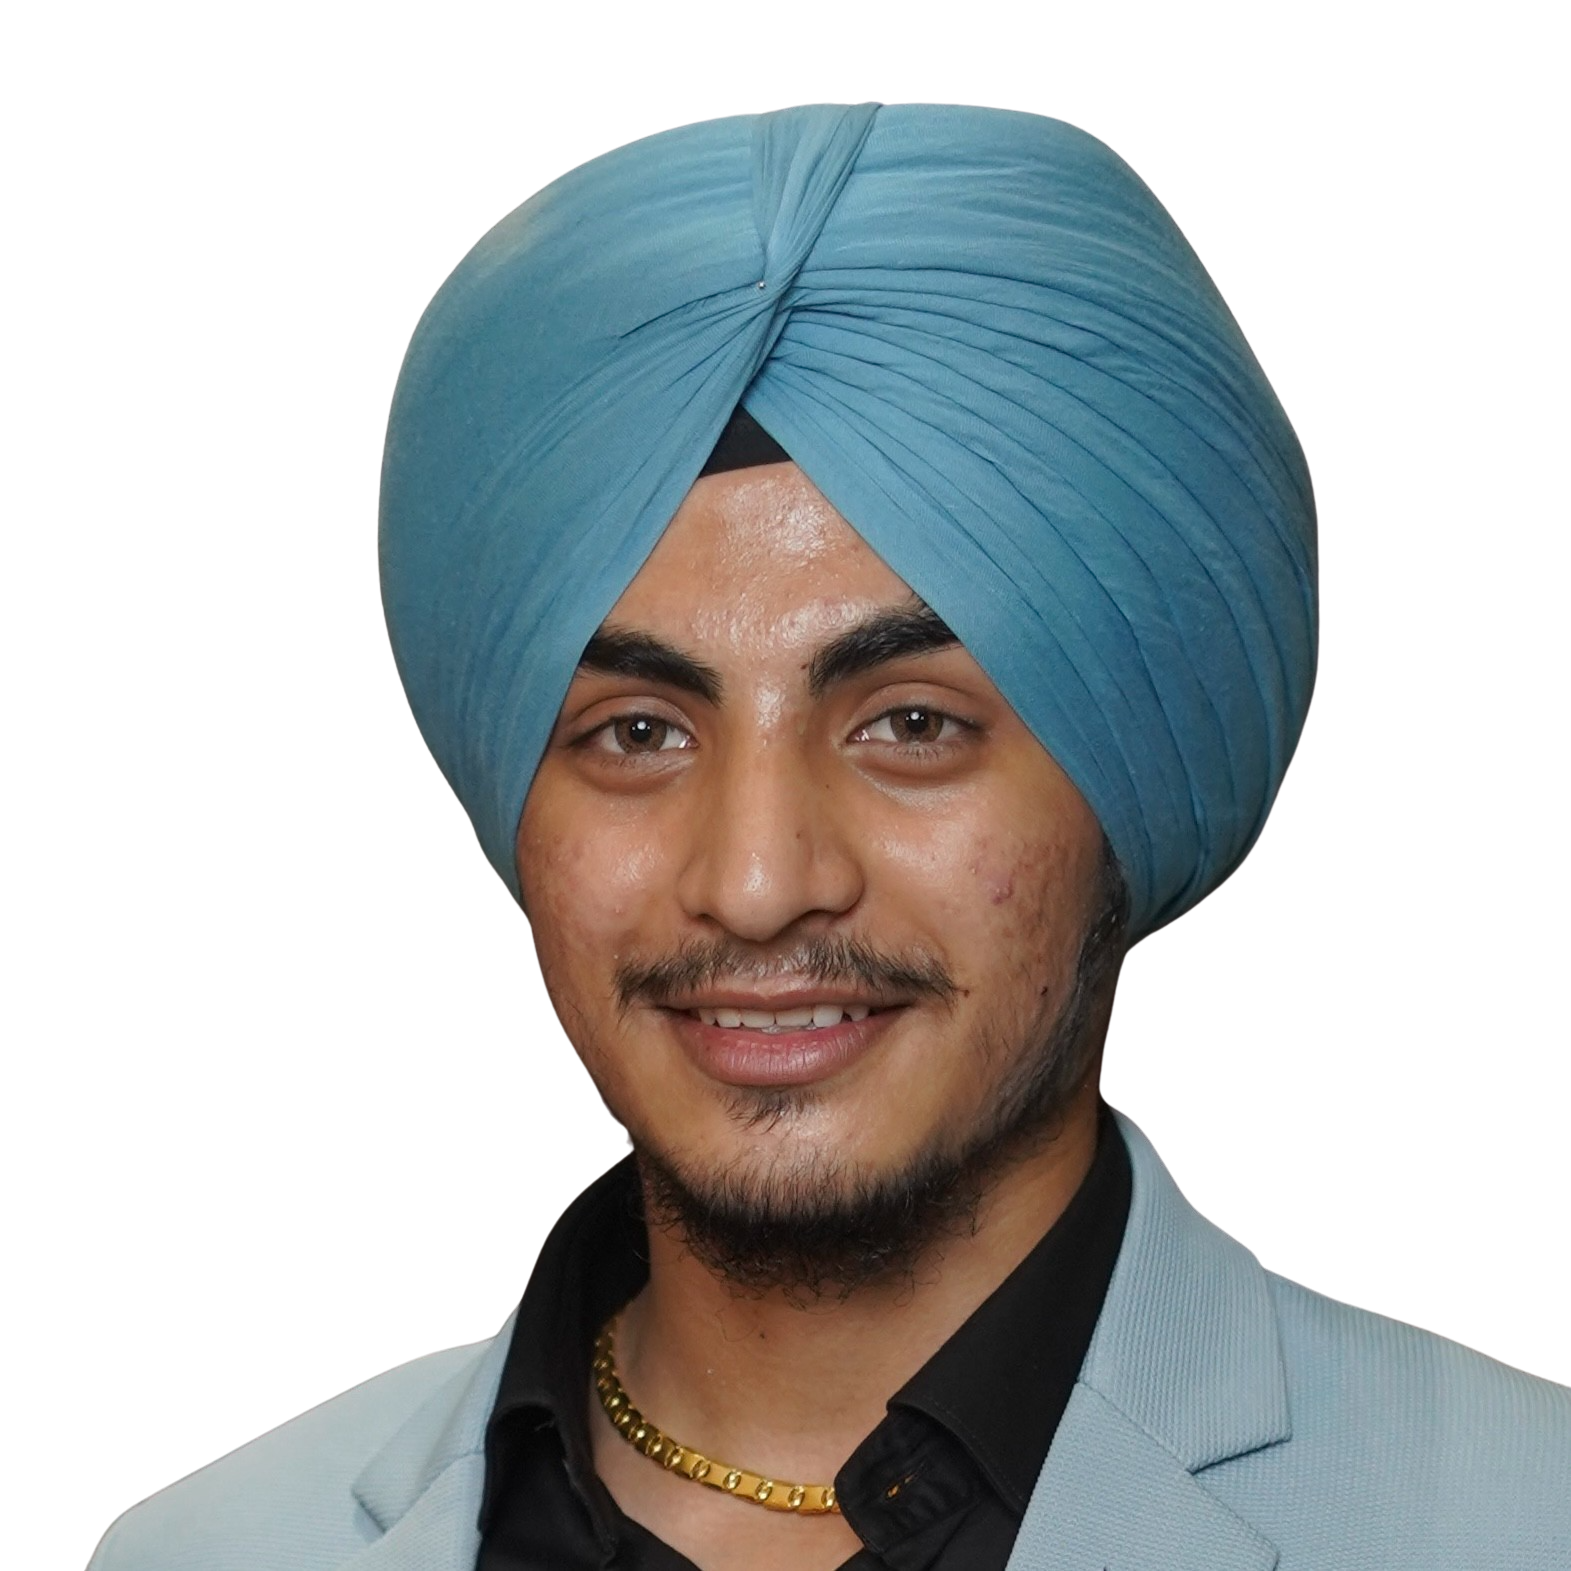
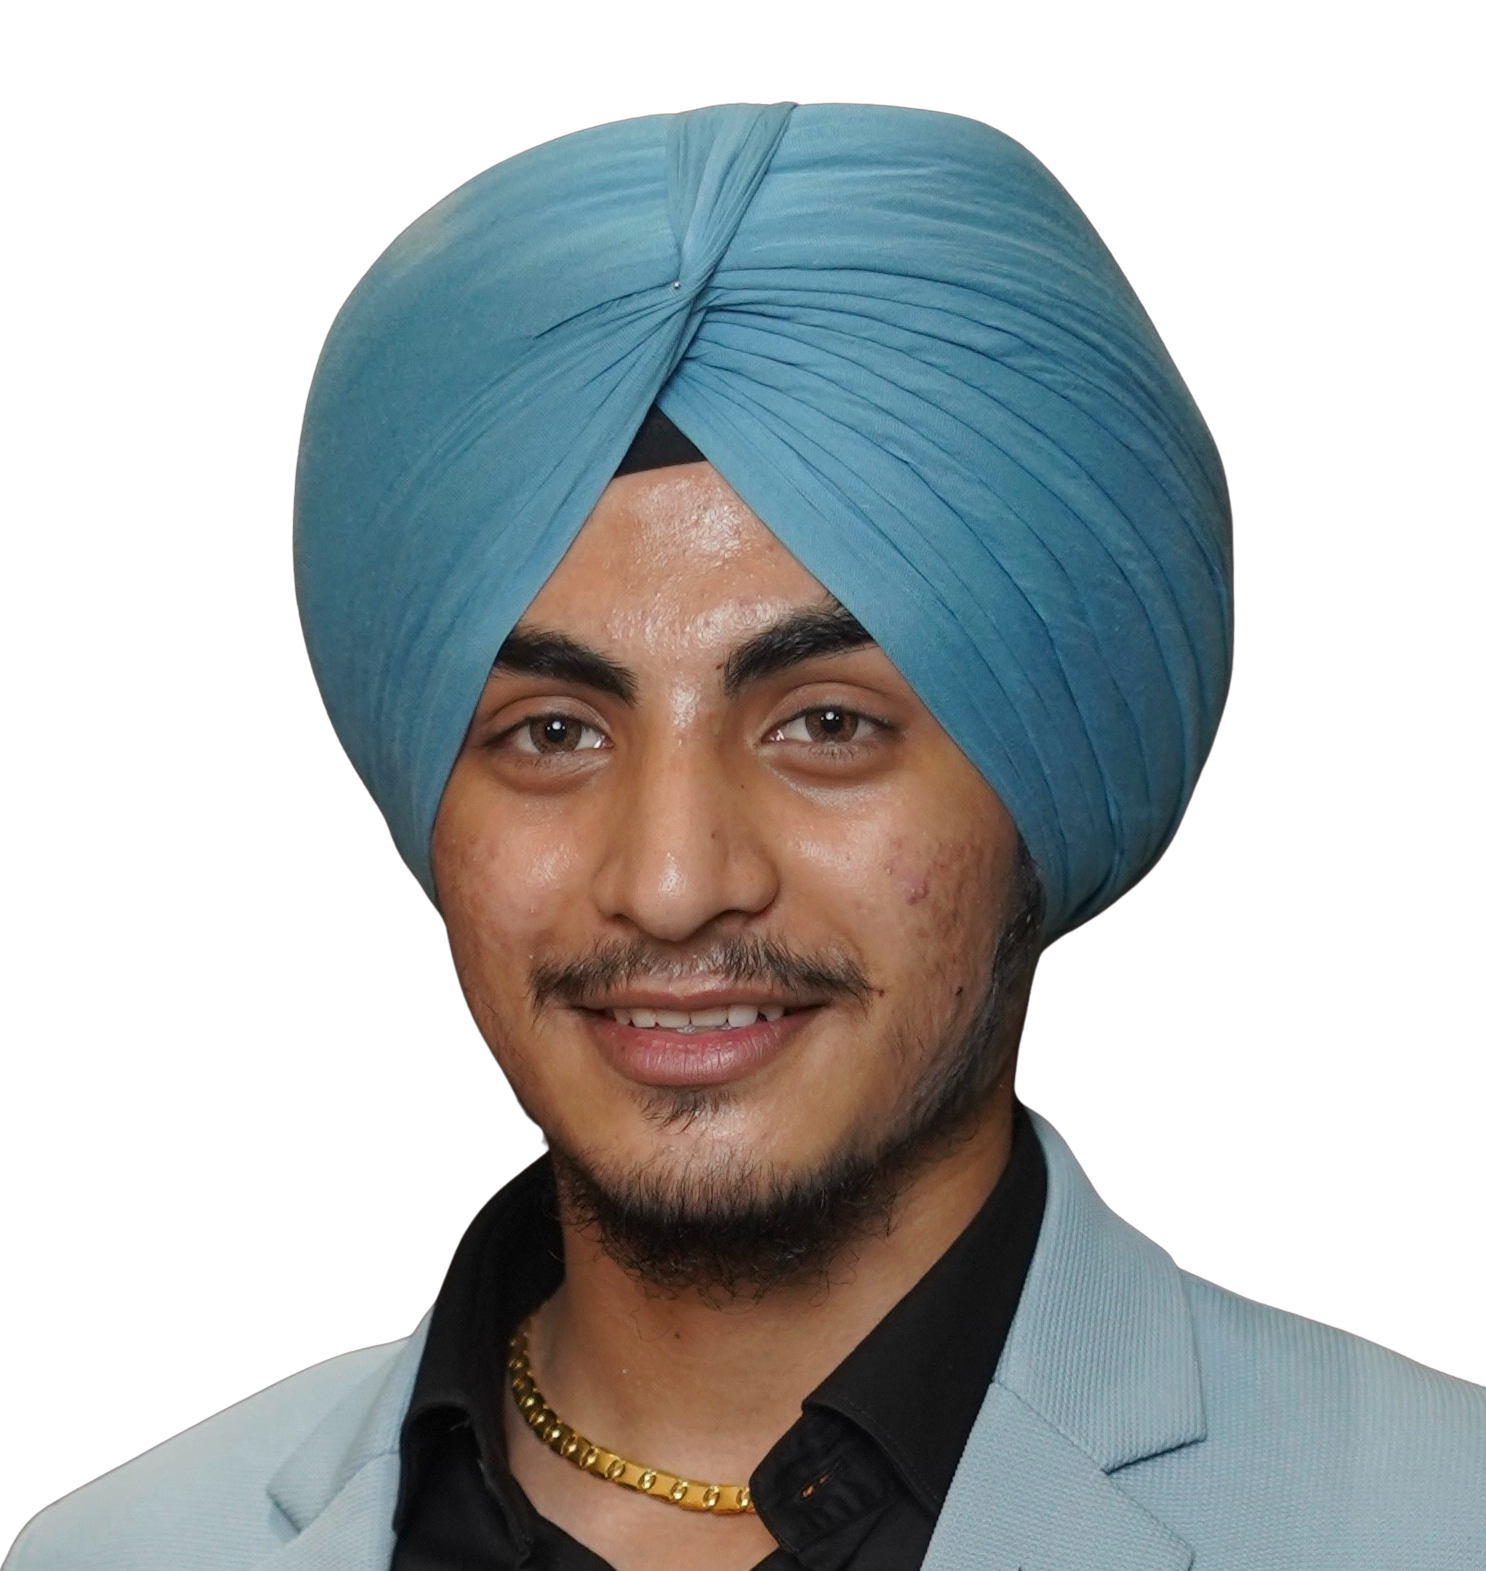
v0.3

diff --git a/index.html b/index.html
@@ -56,7 +56,7 @@
 
     <div class="about-container">
         <div class="about-img">
-            <img src="main.png" alt="">
+            <img src="main2.png" alt="">
         </div>
         <div class="about-text">
             <p>As a Software Developer, I build the digital world's foundation with expertise in HTML, CSS, Python, MySQL, C++, and JavaScript. My journey also involves exploring Figma, Graphic Design, and Website Building, enhancing my creative and technical skills to craft innovative solutions.</p>
@@ -122,7 +122,7 @@
             </div>
         </div>
         <div class="skills-img">
-            <img src="main.png" alt="Skill">
+            <img src="main3.png" alt="Skill">
         </div>
     </div>
 </section>
@@ -206,3 +206,122 @@
 </body>
 
 </html>
+
+
+
+<!-- 
+<button class="btn btn--stripe">Button</button>
+<a href="#" class="btn btn--stripe">Link</a>
+<button class="btn btn--stripe btn--radius">Aggressive Radius</button>
+<button class="btn btn--stripe btn--large">Large Button</button>''
+
+
+
+
+$color-gray: #666;
+$color-black: #000;
+$stripe-height: 7px;
+$btn-color: $color-gray;
+$btn-background: #fff;
+$btn-color-hover: #fff;
+$btn-background-hover: $color-gray;
+$border-color: $color-gray;
+$border-color-hover: $color-black;
+
+@mixin reset-button {
+    overflow : visible;
+    margin : 0;
+    padding : 0;
+    border : 0;
+    background : transparent;
+    font : inherit;
+    line-height : normal;
+    cursor : pointer;
+    -moz-user-select : text;
+    
+    &:-moz-focus-inner {
+        padding : 0;
+        border : 0;
+    }
+}
+
+@keyframes stripe-slide {
+    0% { background-position: 0% 0; }
+    100% { background-position: 100% 0; }
+}
+
+body {
+    width: 100%;
+    height: 100vh;
+    display: flex;
+    justify-content: center;
+    align-items: center;
+    flex-direction: column;
+    font-family: sans-serif;
+}
+
+.btn {
+    @include reset-button;
+    display: block;
+    text-decoration: none;
+    text-transform: uppercase;
+    padding: 16px 36px 22px;
+    background-color: $btn-background;
+    color: $btn-color;
+    border: 2px solid $border-color;
+    border-radius: 6px;
+    margin-bottom: 16px;
+    transition: all .5s ease;
+    
+    &--stripe {
+        overflow: hidden;
+        position: relative;
+        
+        &:after {
+            content: '';
+            display: block;
+            height: $stripe-height;
+            width: 100%;
+            background-image: repeating-linear-gradient(
+                45deg,
+                $border-color,
+                $border-color 1px,
+                transparent 2px,
+                transparent 5px
+            );
+            -webkit-backface-visibility: hidden;
+            backface-visibility: hidden;
+            border-top: 1px solid $border-color;
+            position: absolute;
+            left: 0;
+            bottom: 0;
+            background-size: $stripe-height $stripe-height;
+        }
+
+        &:hover {
+            background-color: $btn-background-hover;
+            color: $btn-color-hover;
+            border-color: $border-color-hover;
+
+            &:after {
+                background-image: repeating-linear-gradient(
+                    45deg,
+                    $btn-color-hover,
+                    $btn-color-hover 1px,
+                    transparent 2px,
+                    transparent 5px
+                );
+                border-top: 1px solid $border-color-hover;
+                animation: stripe-slide 12s infinite linear forwards;
+            }
+        }
+    }
+    
+    &--large {
+        width: 50%;
+    }
+    
+    &--radius {
+        border-radius: 36px;
+    }
+} -->

diff --git a/style.css b/style.css
@@ -12,10 +12,10 @@
 }
 
 :root {
-  --main-color: #033a80;
+  --main-color: #40916C;
   --bg-color: #fff;
   --text-color: #0f0c27;
-  --hover: hsl(260, 100%, 51%);
+  --hover: hsl(155, 43%, 18%);
   --big-font: 3.2rem;
   --medium-font: 1.8rem;
   --p-font: 0.941rem;
@@ -50,7 +50,7 @@ body {
 
 .heading span {
   font-size: var(--p-font);
-  color: rgb(2, 166, 70);
+  color: rgb(53, 143, 128);
 }
 
 header {
@@ -82,7 +82,7 @@ header.shadow {
 .logo span {
   font-size: 1.61rem;
   font-weight: 600;
-  color: crimson;
+  color: hsl(0, 69%, 50%);
 }
 
 .navbar {
@@ -128,6 +128,7 @@ header.shadow {
 
 .home-img img {
   width: 100%;
+  border-radius: 0.5rem;
 }
 
 .home-text span {
@@ -163,6 +164,7 @@ header.shadow {
 
 .social a:hover {
   color: var(--hover);
+  --hover: hsl(0, 69%, 50%);
 }
 
 .btn {
@@ -176,6 +178,9 @@ header.shadow {
 .btn:hover {
   background: var(--hover);
 }
+
+
+
 
 
 .about-container {
@@ -227,6 +232,7 @@ header.shadow {
   width: 80%;
   padding-left: 4rem;
   object-position: center;
+  border-radius: 0.5rem;
 }
 
 .bars-box {
@@ -250,7 +256,7 @@ span {
   left: 0;
   width: 100%;
   height: 0.5rem;
-  background: hsla(260, 100%, 44%, 0.4);
+  background: hsl(153, 41%, 62%, 0.4);
   border-radius: 0.5rem;
 }
 
@@ -300,7 +306,7 @@ span {
 }
 
 .projects-box:hover {
-  background-color: #02225a;
+  background-color: #036666;
 }
 
 .projects-box h3 {
@@ -320,7 +326,7 @@ span {
 }
 
 .projects-box:hover .bx {
-  color: #22cf91;
+  color: #80ed99;
 }
 
 .projects-box a {
@@ -330,7 +336,7 @@ span {
 }
 
 .projects-box:hover a {
-  color: #8b8a8f;
+  color: #d1cfcf;
 }
 
 .contact-form {
@@ -370,7 +376,7 @@ form textarea {
 .contact-button {
   width: 160px;
   cursor: pointer;
-  background: #2768d9;
+  background: #F77F00;
   color: #fff;
   justify-content: center;
   text-transform: uppercase;
@@ -379,6 +385,7 @@ form textarea {
 }
 
 .contact-button:hover {
+  transition: 5ms;
   background: var(--hover);
 }
 
@@ -556,3 +563,5 @@ form textarea {
     margin-left: 25%;
   }
 }
+
+/* Button css */
